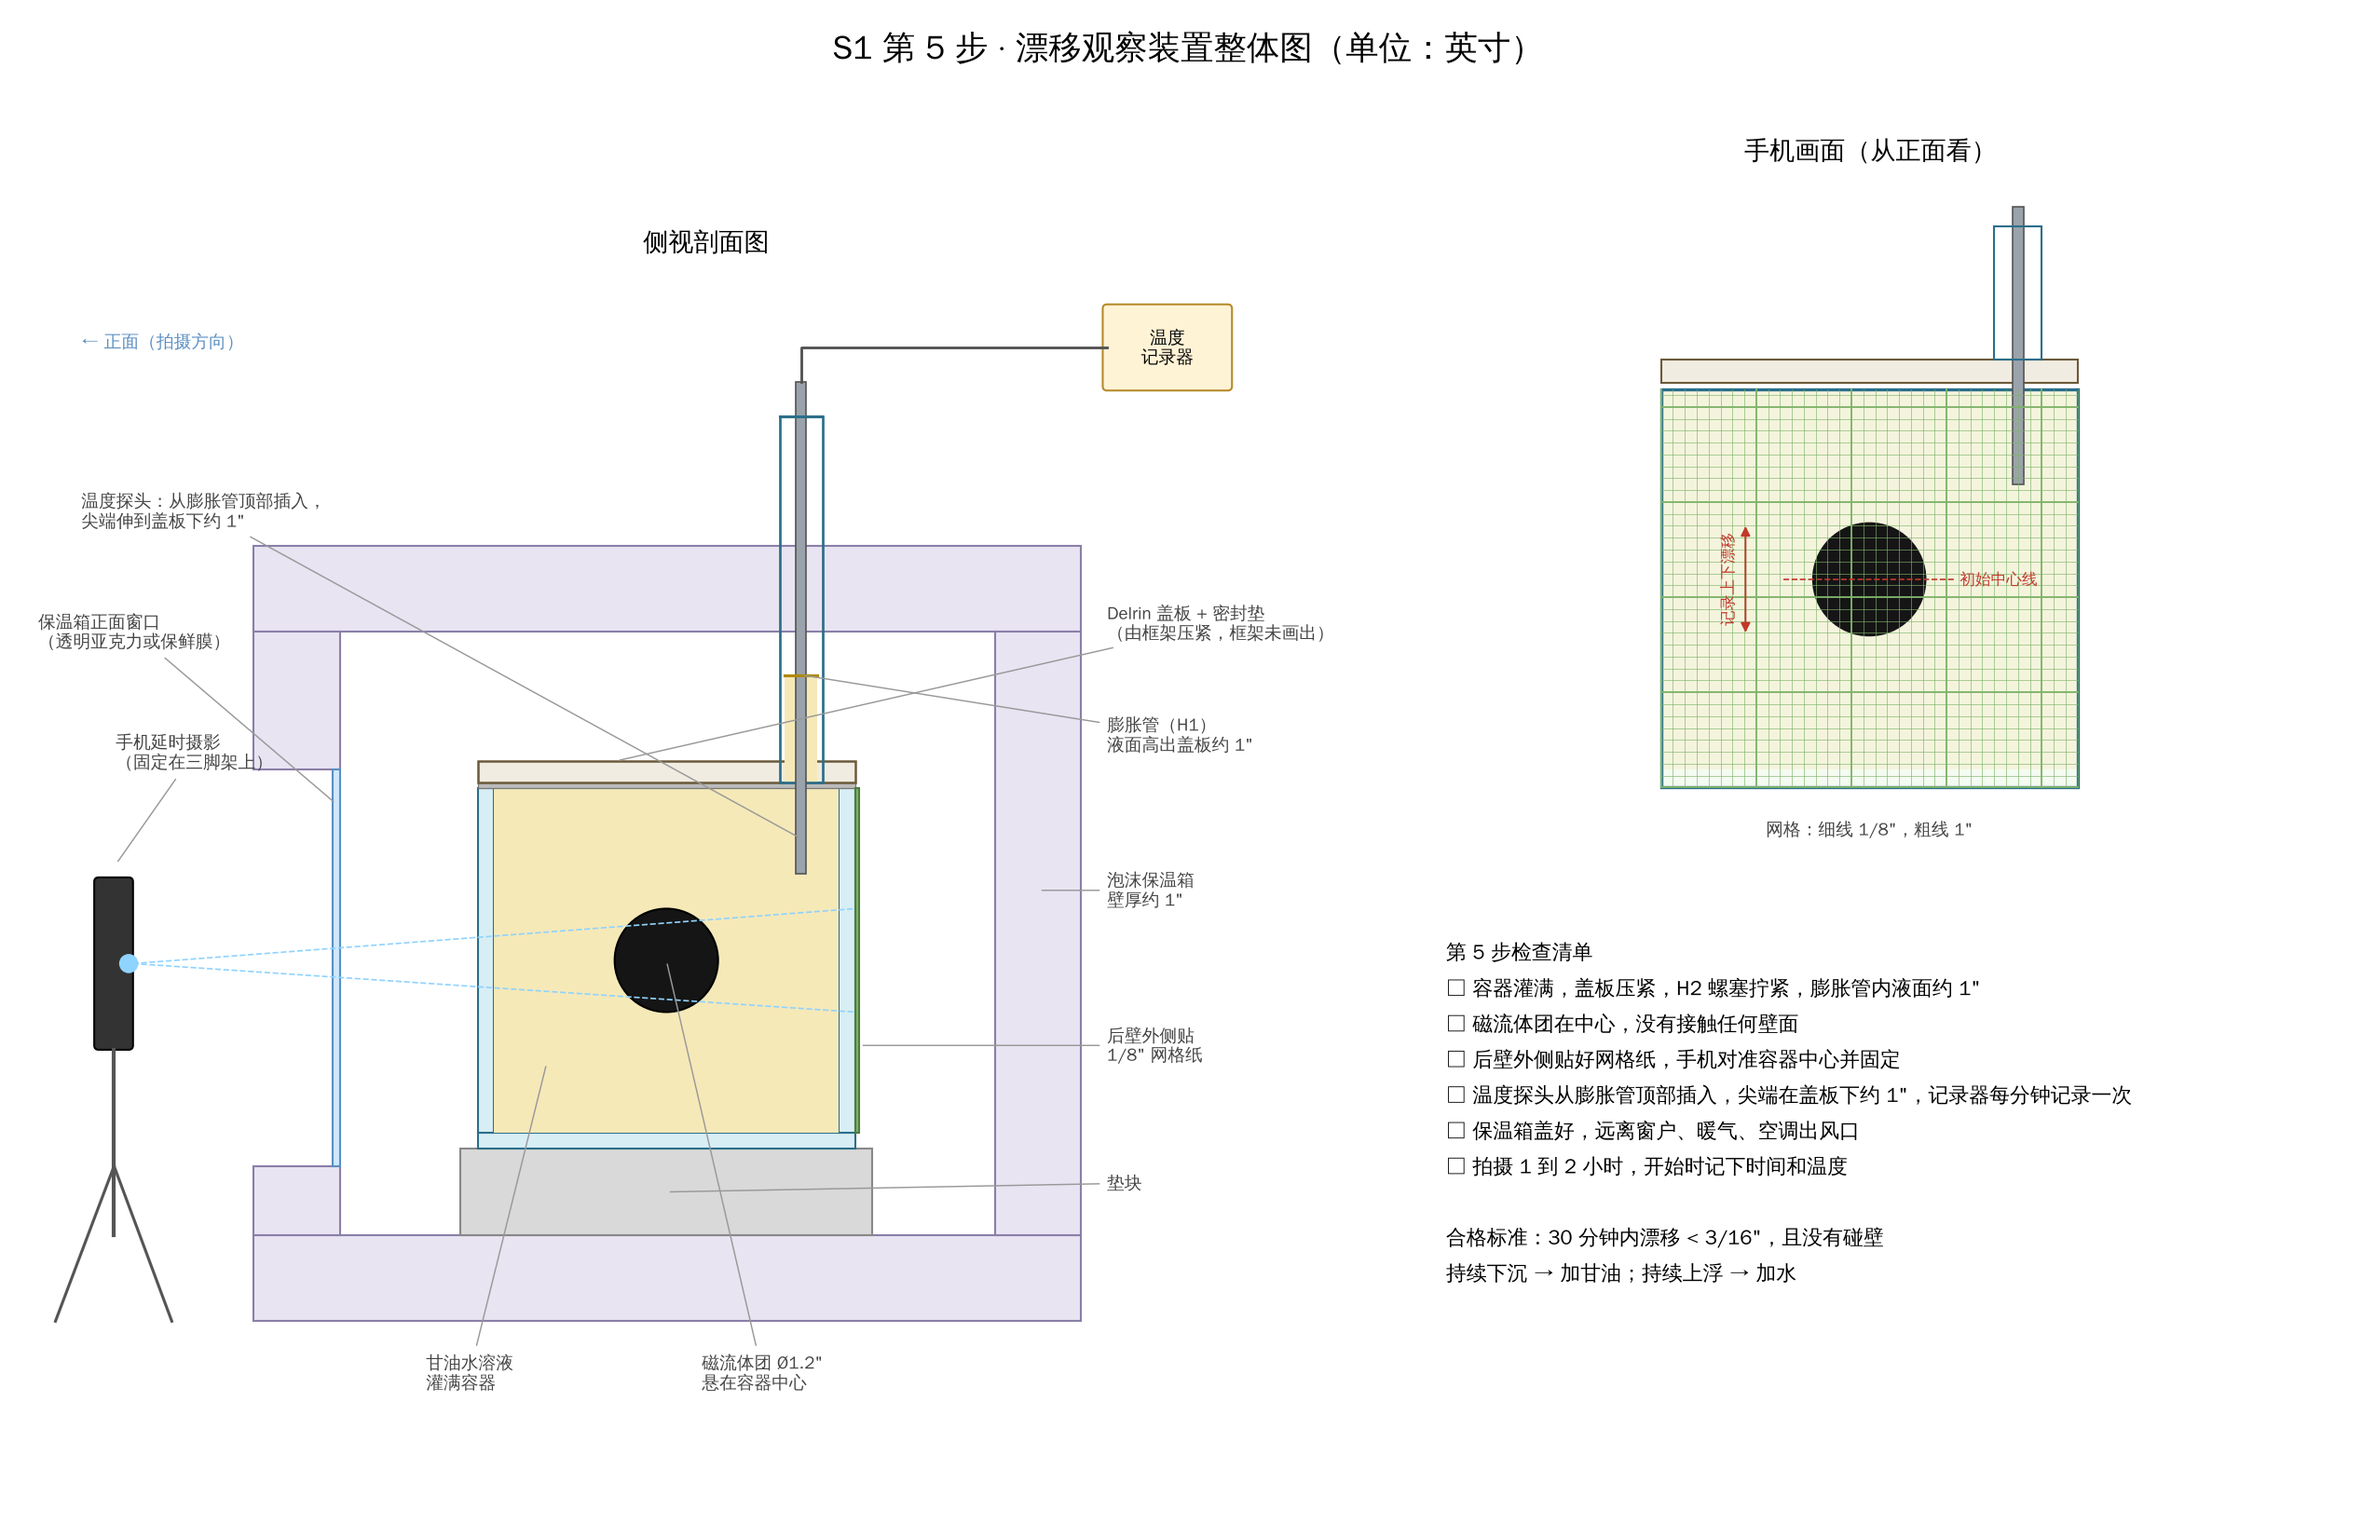
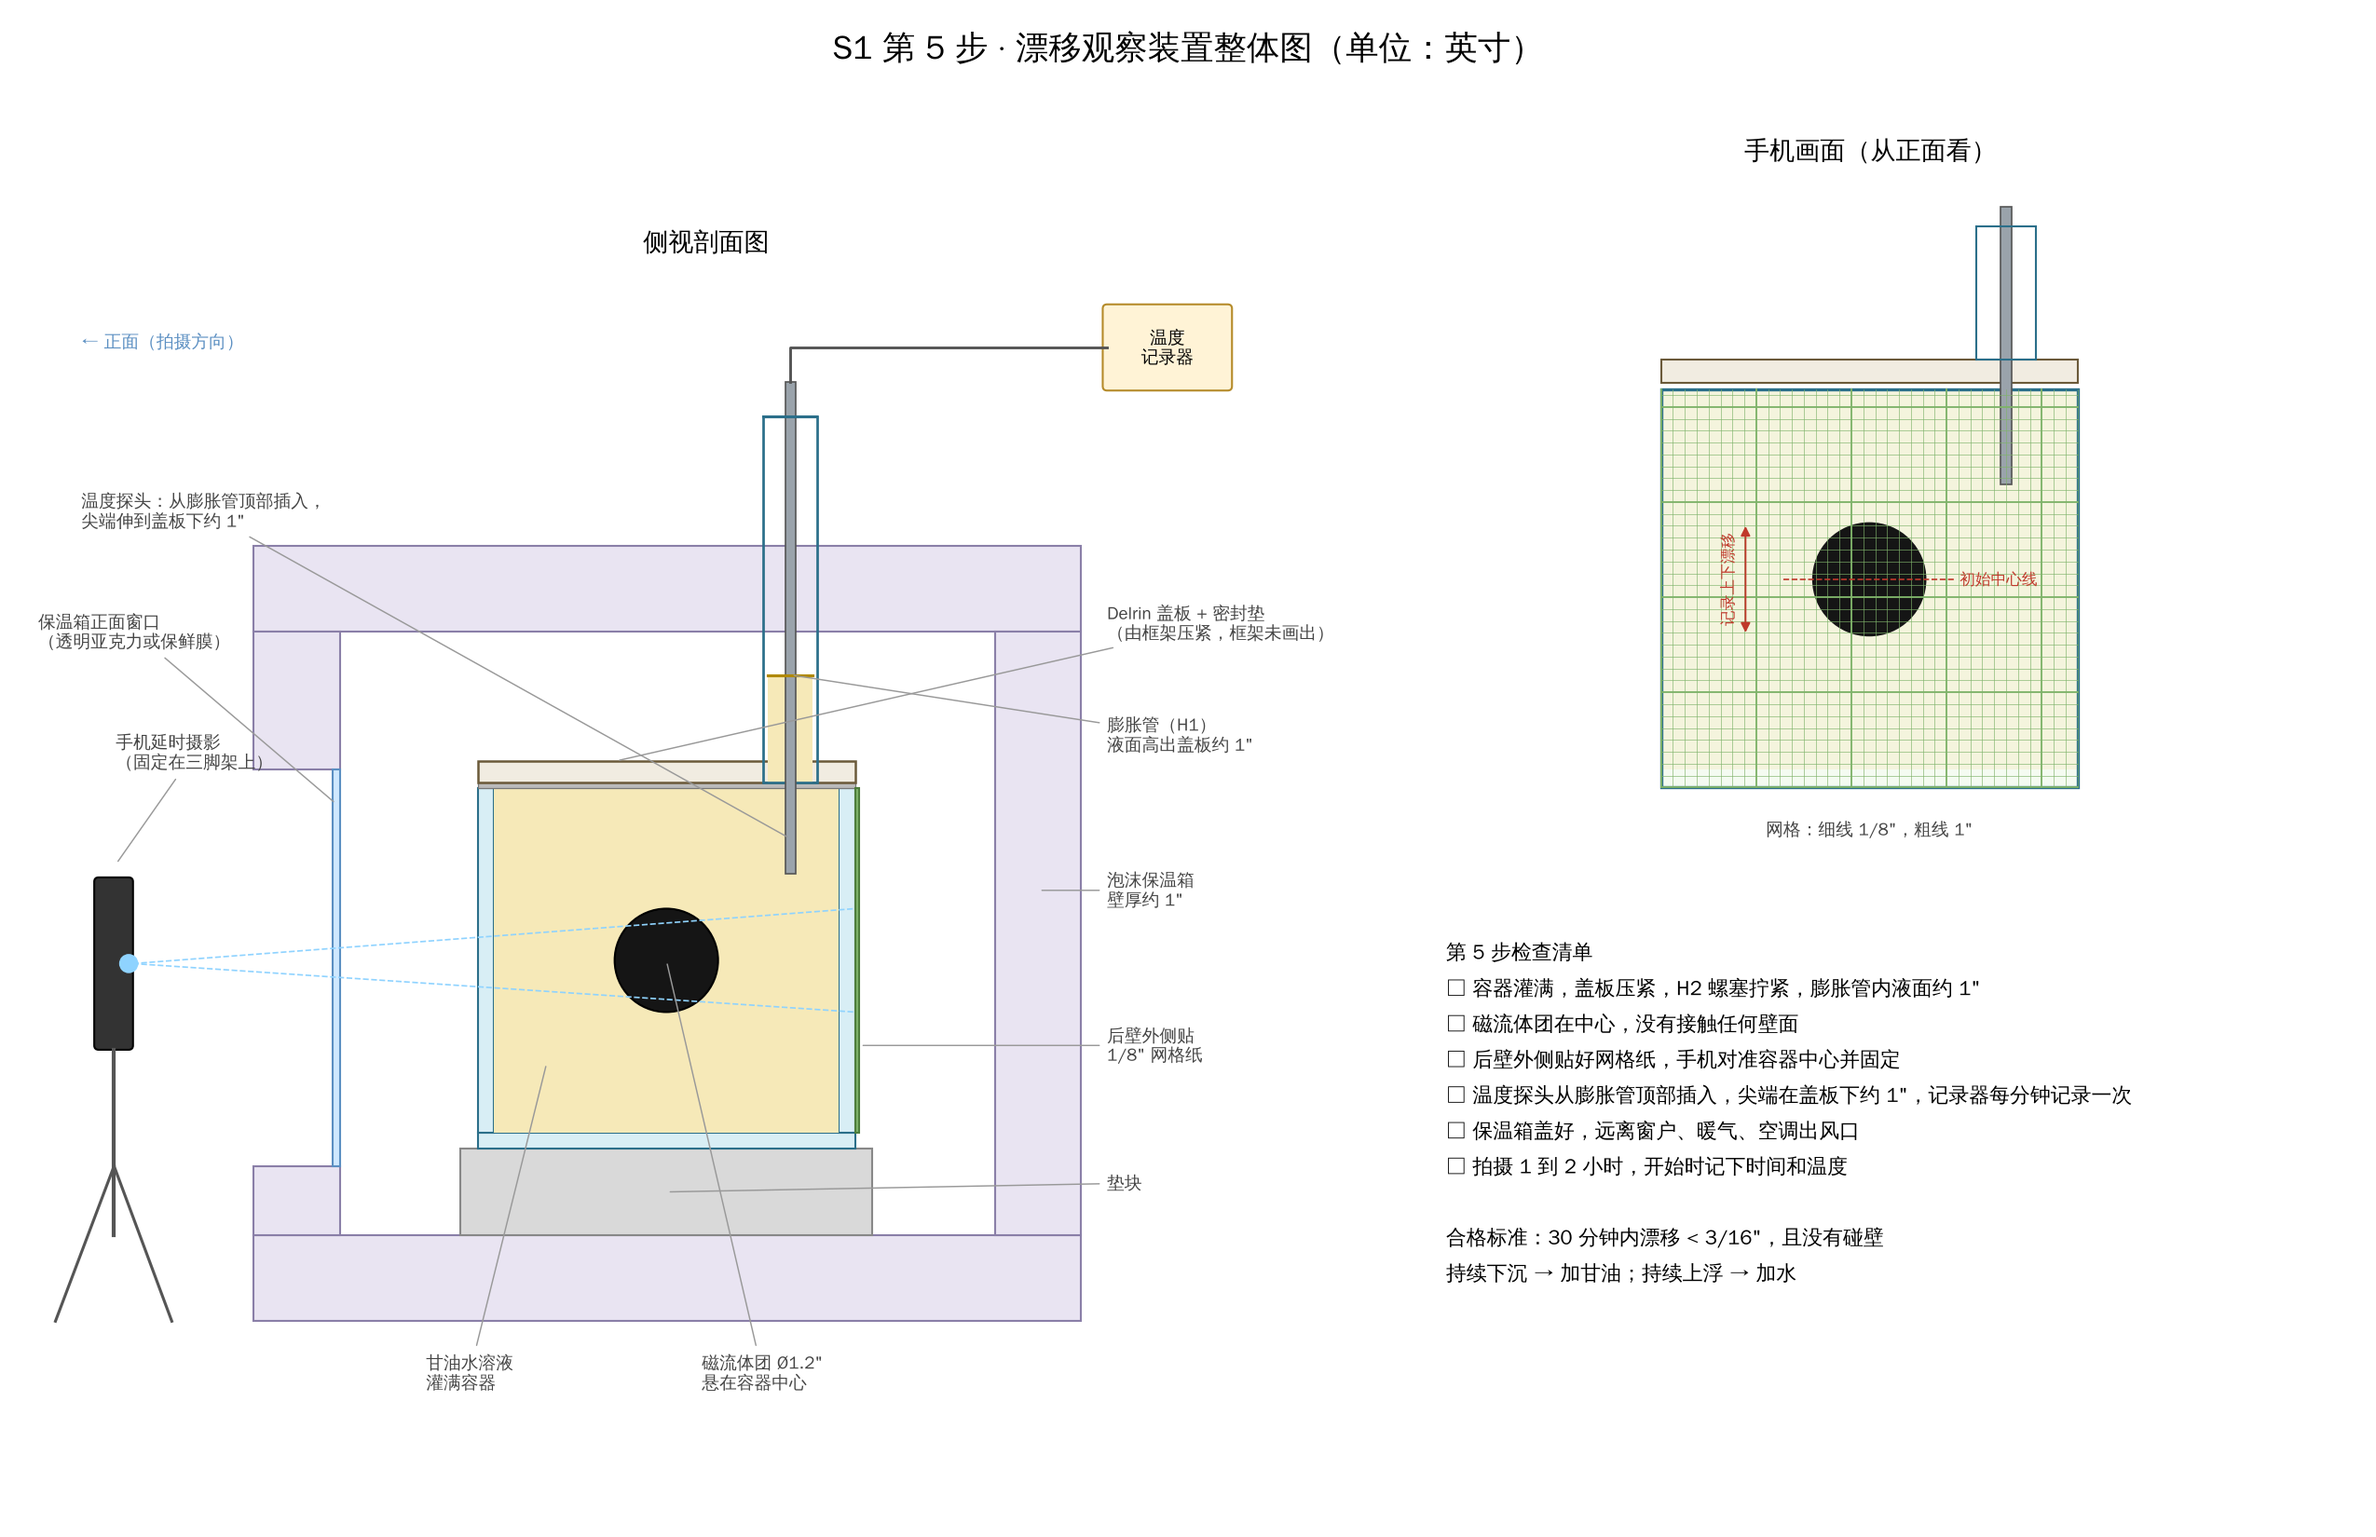
Resize expansion tube to 16 mm OD; move back-corner ports to 3/4 in from edges
Claude-Session: https://claude.ai/code/session_01JbC6dMQZWVM5Cnm7F4XdEa

Changed region(s): [[0.3098, 0.2473, 0.3718, 0.5873], [0.8365, 0.1236, 0.8675, 0.3091]]

diff --git a/ferrofluid_tank/s1_setup.py b/ferrofluid_tank/s1_setup.py
@@ -15,7 +15,7 @@ from glass_panels import GLASS_EDGE, INNER, OUTER, T
 
 LID_T = 1 / 4
 GASKET = 1 / 16
-TUBE_OD, TUBE_ID, TUBE_H = 1 / 2, 3 / 8, 4.0
+TUBE_OD, TUBE_ID, TUBE_H = 16 / 25.4, 13 / 25.4, 4.0   # glass tube OD 16 mm, ID ~13 mm (assumed)
 BLOB_D = 1.2
 LIQUID = "#f6e9b8"
 FOAM = "#e9e4f2"
@@ -70,8 +70,8 @@ def side_section(ax):
     # stand under the tank
     ax.add_patch(Rectangle((-0.2, by0), OUTER + 0.4, -by0, facecolor="#d9d9d9", edgecolor="#888"))
 
-    # tank: left = front (camera side). H1 is at the back (y = 3.75); the probe goes down H1
-    (tube_x, tube_top), (probe_x, probe_top), (cx, cy) = tank_section(ax, 0, 3.75)
+    # tank: left = front (camera side). H1 is at the back (y = OUTER - 3/4); the probe goes down H1
+    (tube_x, tube_top), (probe_x, probe_top), (cx, cy) = tank_section(ax, 0, OUTER - 3 / 4)
     # grid paper on the back glass
     ax.add_patch(Rectangle((OUTER, T), 0.05, INNER, facecolor="#7fb36a", edgecolor="#4d7d3c"))
 
@@ -132,9 +132,9 @@ def camera_view(ax):
     ax.add_patch(Rectangle((0, 0), OUTER, TANK_H, fill=False, edgecolor=GLASS_EDGE, lw=1.6))
     ax.add_patch(Rectangle((0, TANK_H + GASKET), OUTER, LID_T, facecolor=LID_FILL, edgecolor="#6b5a3a"))
     # probe runs down the expansion tube in the back-right corner
-    ax.add_patch(Rectangle((3.75 - 0.06, T + INNER - 1.0), 0.12, 1.0 + GASKET + LID_T + 1.6,
+    ax.add_patch(Rectangle((OUTER - 3 / 4 - 0.06, T + INNER - 1.0), 0.12, 1.0 + GASKET + LID_T + 1.6,
                            facecolor="#9aa3ab", edgecolor="#555", lw=0.8))
-    ax.add_patch(Rectangle((3.75 - TUBE_OD / 2, TOP_Y), TUBE_OD, 1.4, fill=False, edgecolor=GLASS_EDGE))
+    ax.add_patch(Rectangle((OUTER - 3 / 4 - TUBE_OD / 2, TOP_Y), TUBE_OD, 1.4, fill=False, edgecolor=GLASS_EDGE))
     cx, cy = OUTER / 2, T + INNER / 2
     ax.add_patch(Circle((cx, cy), BLOB_D / 2, facecolor=FERRO))
     ax.plot([cx - 0.9, cx + 0.9], [cy, cy], color="#c0392b", lw=0.8, ls="--")

diff --git a/ferrofluid_tank/tank_render.py b/ferrofluid_tank/tank_render.py
@@ -15,11 +15,11 @@ from glass_panels import INNER, OUTER, T
 
 LID_T = 1 / 4
 GASKET = 1 / 16
-TUBE_OD, TUBE_ID, TUBE_H = 1 / 2, 3 / 8, 4.0
+TUBE_OD, TUBE_ID, TUBE_H = 16 / 25.4, 13 / 25.4, 4.0   # glass tube OD 16 mm, ID ~13 mm (assumed)
 LIQ_IN_TUBE = 1.0
 BLOB_R = 0.6
-H1 = (OUTER - 5 / 8, OUTER - 5 / 8)
-H2 = (5 / 8, OUTER - 5 / 8)
+H1 = (OUTER - 3 / 4, OUTER - 3 / 4)
+H2 = (3 / 4, OUTER - 3 / 4)
 
 GLASS = (0.72, 0.88, 0.95, 0.22)
 GLASS_EDGE = (0.17, 0.44, 0.54, 0.9)
@@ -132,7 +132,7 @@ def main():
     ax1 = fig.add_subplot(1, 2, 1, projection="3d")
     lid_top, _ = draw_tank(ax1, explode=0.0, filled=True)
     style(ax1, "装配完成（灌液后）", 9.0)
-    label(ax1, (*H1, lid_top + 2.6), "H1 膨胀管 Ø1/2\"（管顶开口）", dx=0.7, dz=0.0)
+    label(ax1, (*H1, lid_top + 2.6), "H1 膨胀管 外径 16 mm（管顶开口）", dx=0.7, dz=0.0)
     label(ax1, (*H1, lid_top + LIQ_IN_TUBE), "液面约高出盖板 1\"", dx=1.4, dz=0.6)
     label(ax1, (*H2, lid_top + 0.12), "H2 注液口螺塞", dx=-1.6, dz=1.0)
     label(ax1, (*H1, lid_top + TUBE_H + 0.8), "温度探头：从膨胀管顶部插入，\n尖端伸到盖板下约 1\"", dx=0.6, dz=0.2)

diff --git a/ferrofluid_tank/lid_holes.py b/ferrofluid_tank/lid_holes.py
@@ -17,12 +17,12 @@ from glass_panels import DIM, GLASS_EDGE, INNER, OUTER, T, dim_h, dim_v, frac
 
 LID_T = 1 / 4
 LID_FILL = "#f1ece1"
-EDGE_OFFSET = 5 / 8   # hole center distance from lid edges
+EDGE_OFFSET = 3 / 4   # hole center distance from lid edges
 
 # (label, name, x, y, diameter, spec)
 HOLES = [
-    ("H1", "膨胀管", OUTER - EDGE_OFFSET, OUTER - EDGE_OFFSET, 1 / 2,
-     "Ø1/2\" 通孔，配外径 1/2\"、内径 3/8\" 玻璃管，硅酮胶密封；温度探头从管顶插入"),
+    ("H1", "膨胀管", OUTER - EDGE_OFFSET, OUTER - EDGE_OFFSET, 21 / 32,
+     "Ø21/32\"（16.7 mm）通孔，配外径 16 mm 玻璃管，硅酮胶密封"),
     ("H2", "注液口", EDGE_OFFSET, OUTER - EDGE_OFFSET, 0.201,
      "#7 钻（0.201\"）攻 1/4\"-20 UNC 通丝，配尼龙螺塞 + O 形圈"),
 ]
